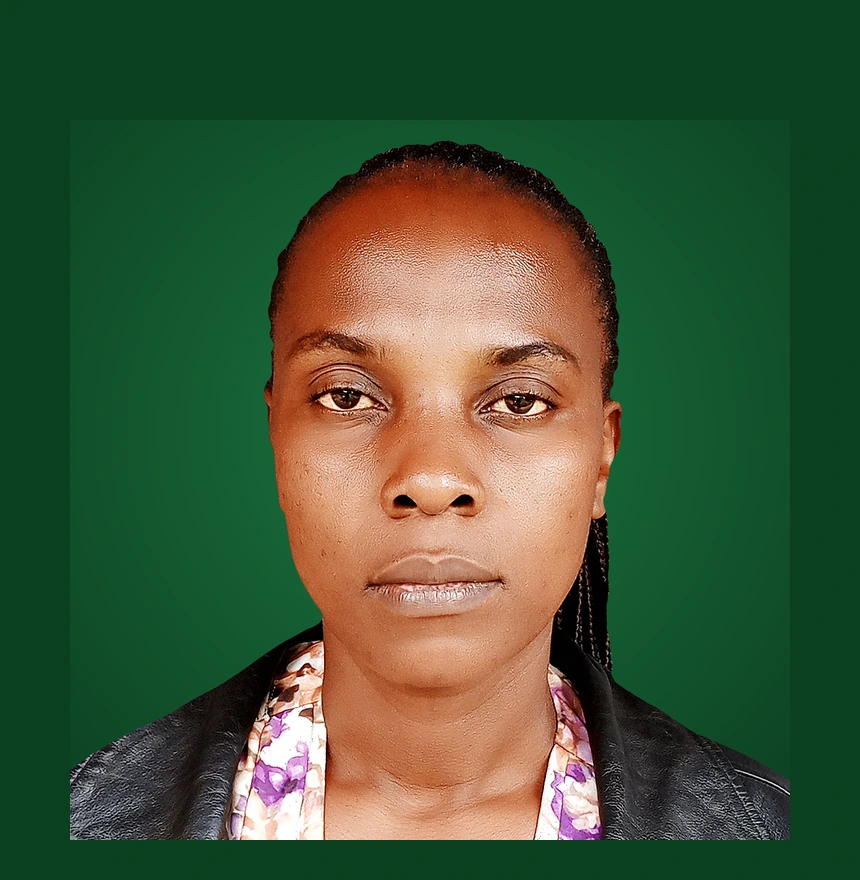
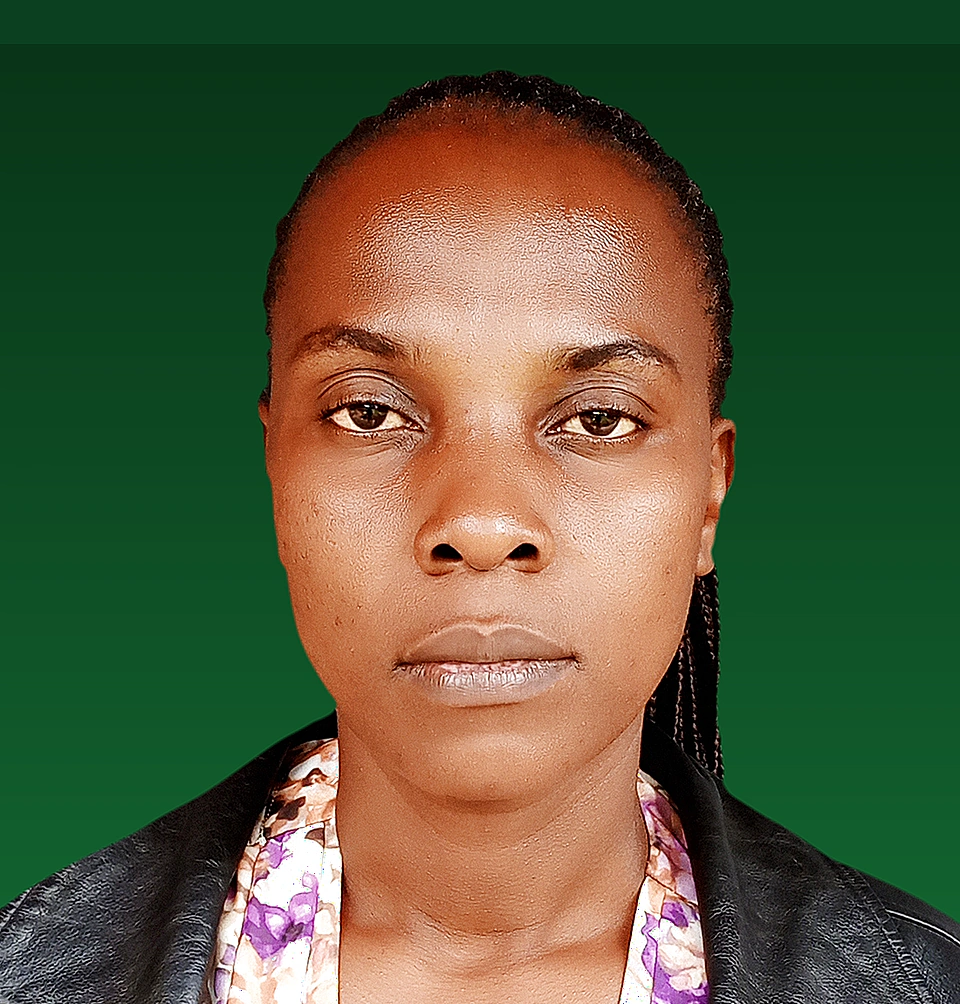
Sharpen administrator portraits for clearer display.
Rebuild admin WebPs at higher resolution and quality so faces stay crisp in the circular frames.

diff --git a/artifacts/grace-high-school/src/index.css b/artifacts/grace-high-school/src/index.css
@@ -393,11 +393,11 @@ body.mobile-menu-open {
   height: 100%;
   border-radius: 50%;
   object-fit: cover;
-  object-position: center center;
+  object-position: center 16%;
   background: #0A4020;
+  /* Keep faces crisp on retina — avoid GPU layer tricks that soften photos */
   image-rendering: auto;
-  -webkit-backface-visibility: hidden;
-  transform: translateZ(0);
+  -webkit-font-smoothing: antialiased;
 }
 .leader-name {
   margin: 0 0 6px;

diff --git a/artifacts/grace-high-school/src/App.tsx b/artifacts/grace-high-school/src/App.tsx
@@ -1436,8 +1436,8 @@ export default function App() {
                     alt={p.name}
                     loading="lazy"
                     decoding="async"
-                    width={640}
-                    height={640}
+                    width={960}
+                    height={960}
                     sizes="(max-width: 580px) 148px, 196px"
                   />
                 </div>